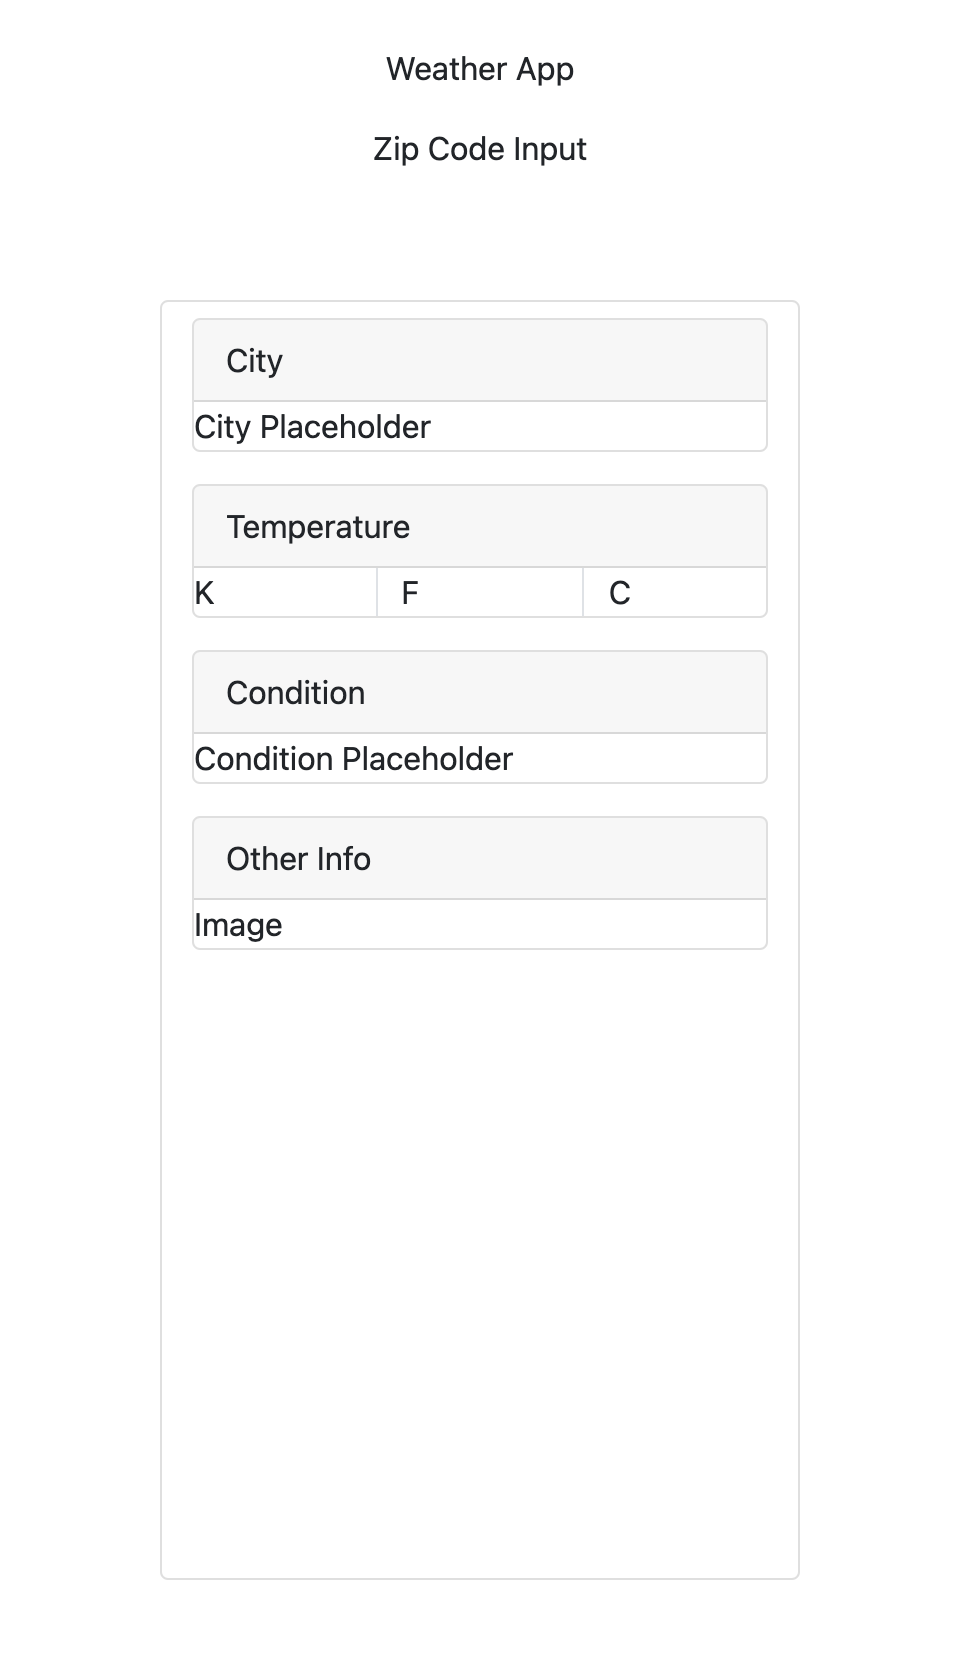
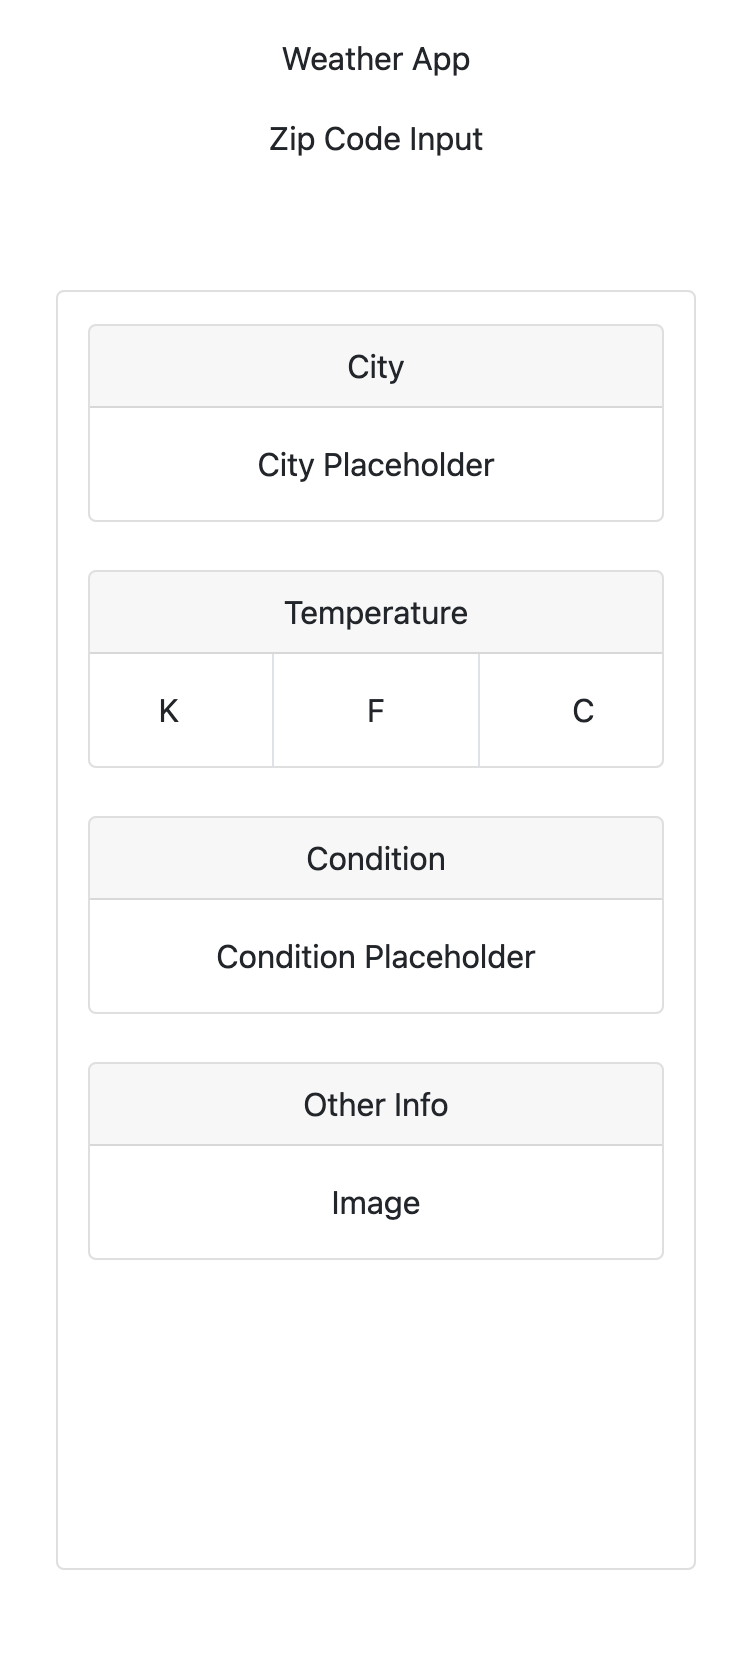
Finished functionality

diff --git a/index.html b/index.html
@@ -11,40 +11,51 @@
 </head>
 
 <body>
-    <div class="text-center pt-4">
+    <div class="text-center fs-1 pt-4">
         Weather App
     </div>
 
     <div class="text-center p-3">
-        Zip Code Input
+
+        <div class="container-fluid" style="width: 300px;">
+           <form>
+               <div class="formBox">
+                   <input type = "text" id="inputZip" placeholder="Enter Zip Code">
+               </div>
+               <div class="formBox">
+                   <button id="btn" type="button">Get Weather</button>
+               </div>
+           </form>
+        </div>
+
     </div>
-    <div class="card mx-auto m-5 p-2" style="width: 20rem; height: 40rem;">
+    <div class="card mx-auto m-2 p-2" style="width: 20rem; height: 40rem;">
         <div class="row mx-auto">
-            <div class="card p-0 mb-3" style="width: 18rem;">
-                <div class="card-header">
+            <div class="card p-0 mt-2 mb-4" style="width: 18rem;">
+                <div class="card-header text-center">
                     City
                 </div>
                 <div class="row">
-                    <div class="col">
-                        City Placeholder
+                    <div id="city" class="col text-center p-3">
+                       
                     </div>
                 </div>
             </div>
         </div>
 
         <div class="row mx-auto">
-            <div class="card p-0 mb-3" style="width: 18rem;">
-                <div class="card-header">
+            <div class="card p-0 mb-4" style="width: 18rem;">
+                <div class="card-header text-center">
                     Temperature
                 </div>
                 <div class="row">
-                    <div class="col border-end">
+                    <div id ="kelvin" class="col border-end text-center p-3">
                         K
                     </div>
-                    <div class="col border-end">
+                    <div id="fahrenheit" class="col border-end text-center p-3">
                         F
                     </div>
-                    <div class="col">
+                    <div id="celcius" class="col text-center p-3">
                         C
                     </div>
                 </div>
@@ -52,30 +63,32 @@
         </div>
 
         <div class="row mx-auto">
-            <div class="card p-0 mb-3" style="width: 18rem;">
-                <div class="card-header">
+            <div class="card p-0 mb-4" style="width: 18rem;">
+                <div class="card-header text-center">
                     Condition
                 </div>
                 <div class="row">
-                    <div class="col">
-                        Condition Placeholder
+                    <div id="condition" class="col text-center p-3">
+                
                     </div>
                 </div>
             </div>
         </div>
 
         <div class="row mx-auto">
-            <div class="card p-0 mb-3" style="width: 18rem;">
-                <div class="card-header">
+            <div class="card p-0" style="width: 18rem; height: 15rem;">
+                <div class="card-header text-center">
                     Other Info
                 </div>
                 <div class="row">
-                    <div class="col">
-                        Image
+                    <div class="col text-center p-3">
+                        <img id="pic" src="" alt="">
                     </div>
                 </div>
             </div>
         </div>
+
+        <script src="./js/main.js"></script>
 </body>
 
 </html>

diff --git a/js/main.js b/js/main.js
@@ -1,0 +1,38 @@
+let button = document.getElementById('btn');
+
+button.addEventListener('click', function () {
+    var key = '4ba1c67855b819ecc7cdb88965802ade';
+    fetch('https://api.openweathermap.org/data/2.5/weather?zip=' + document.getElementById('inputZip').value + '&appid=' + key)
+        .then(function (resp) {
+            if (!resp.ok) {
+                // make the promise be rejected if we didn't get a 2xx response
+                throw new Error("Zip Code Invalid")
+            } else {
+                return resp.json()
+            }
+        }) // Convert data to json
+        .then(function (data) {
+            console.log(data);
+            document.getElementById('inputZip').value = "";
+            getDetails(data);
+        })
+        .catch(function (error) {
+            // alert(error);
+        });
+})
+
+
+
+function getDetails(d) {
+    var celcius = Math.round(parseFloat(d.main.temp) - 273.15);
+    var fahrenheit = Math.round(((parseFloat(d.main.temp) - 273.15) * 1.8) + 32);
+
+
+    document.getElementById('city').innerHTML = d.name;
+    document.getElementById('kelvin').innerHTML = d.main.temp + " K";
+    document.getElementById('celcius').innerHTML = celcius + " C";
+    document.getElementById('fahrenheit').innerHTML = fahrenheit + " F";
+    document.getElementById('condition').innerHTML = d.weather[0].description;
+    document.getElementById("pic").src="http://openweathermap.org/img/wn/" + d.weather[0].icon + "@2x.png";
+}
+

diff --git a/pseudocode.md b/pseudocode.md
@@ -1,1 +1,2 @@
 Prompt user with an input box to put in a zip code.
+Fetch weather data with an API call with user's zip code
